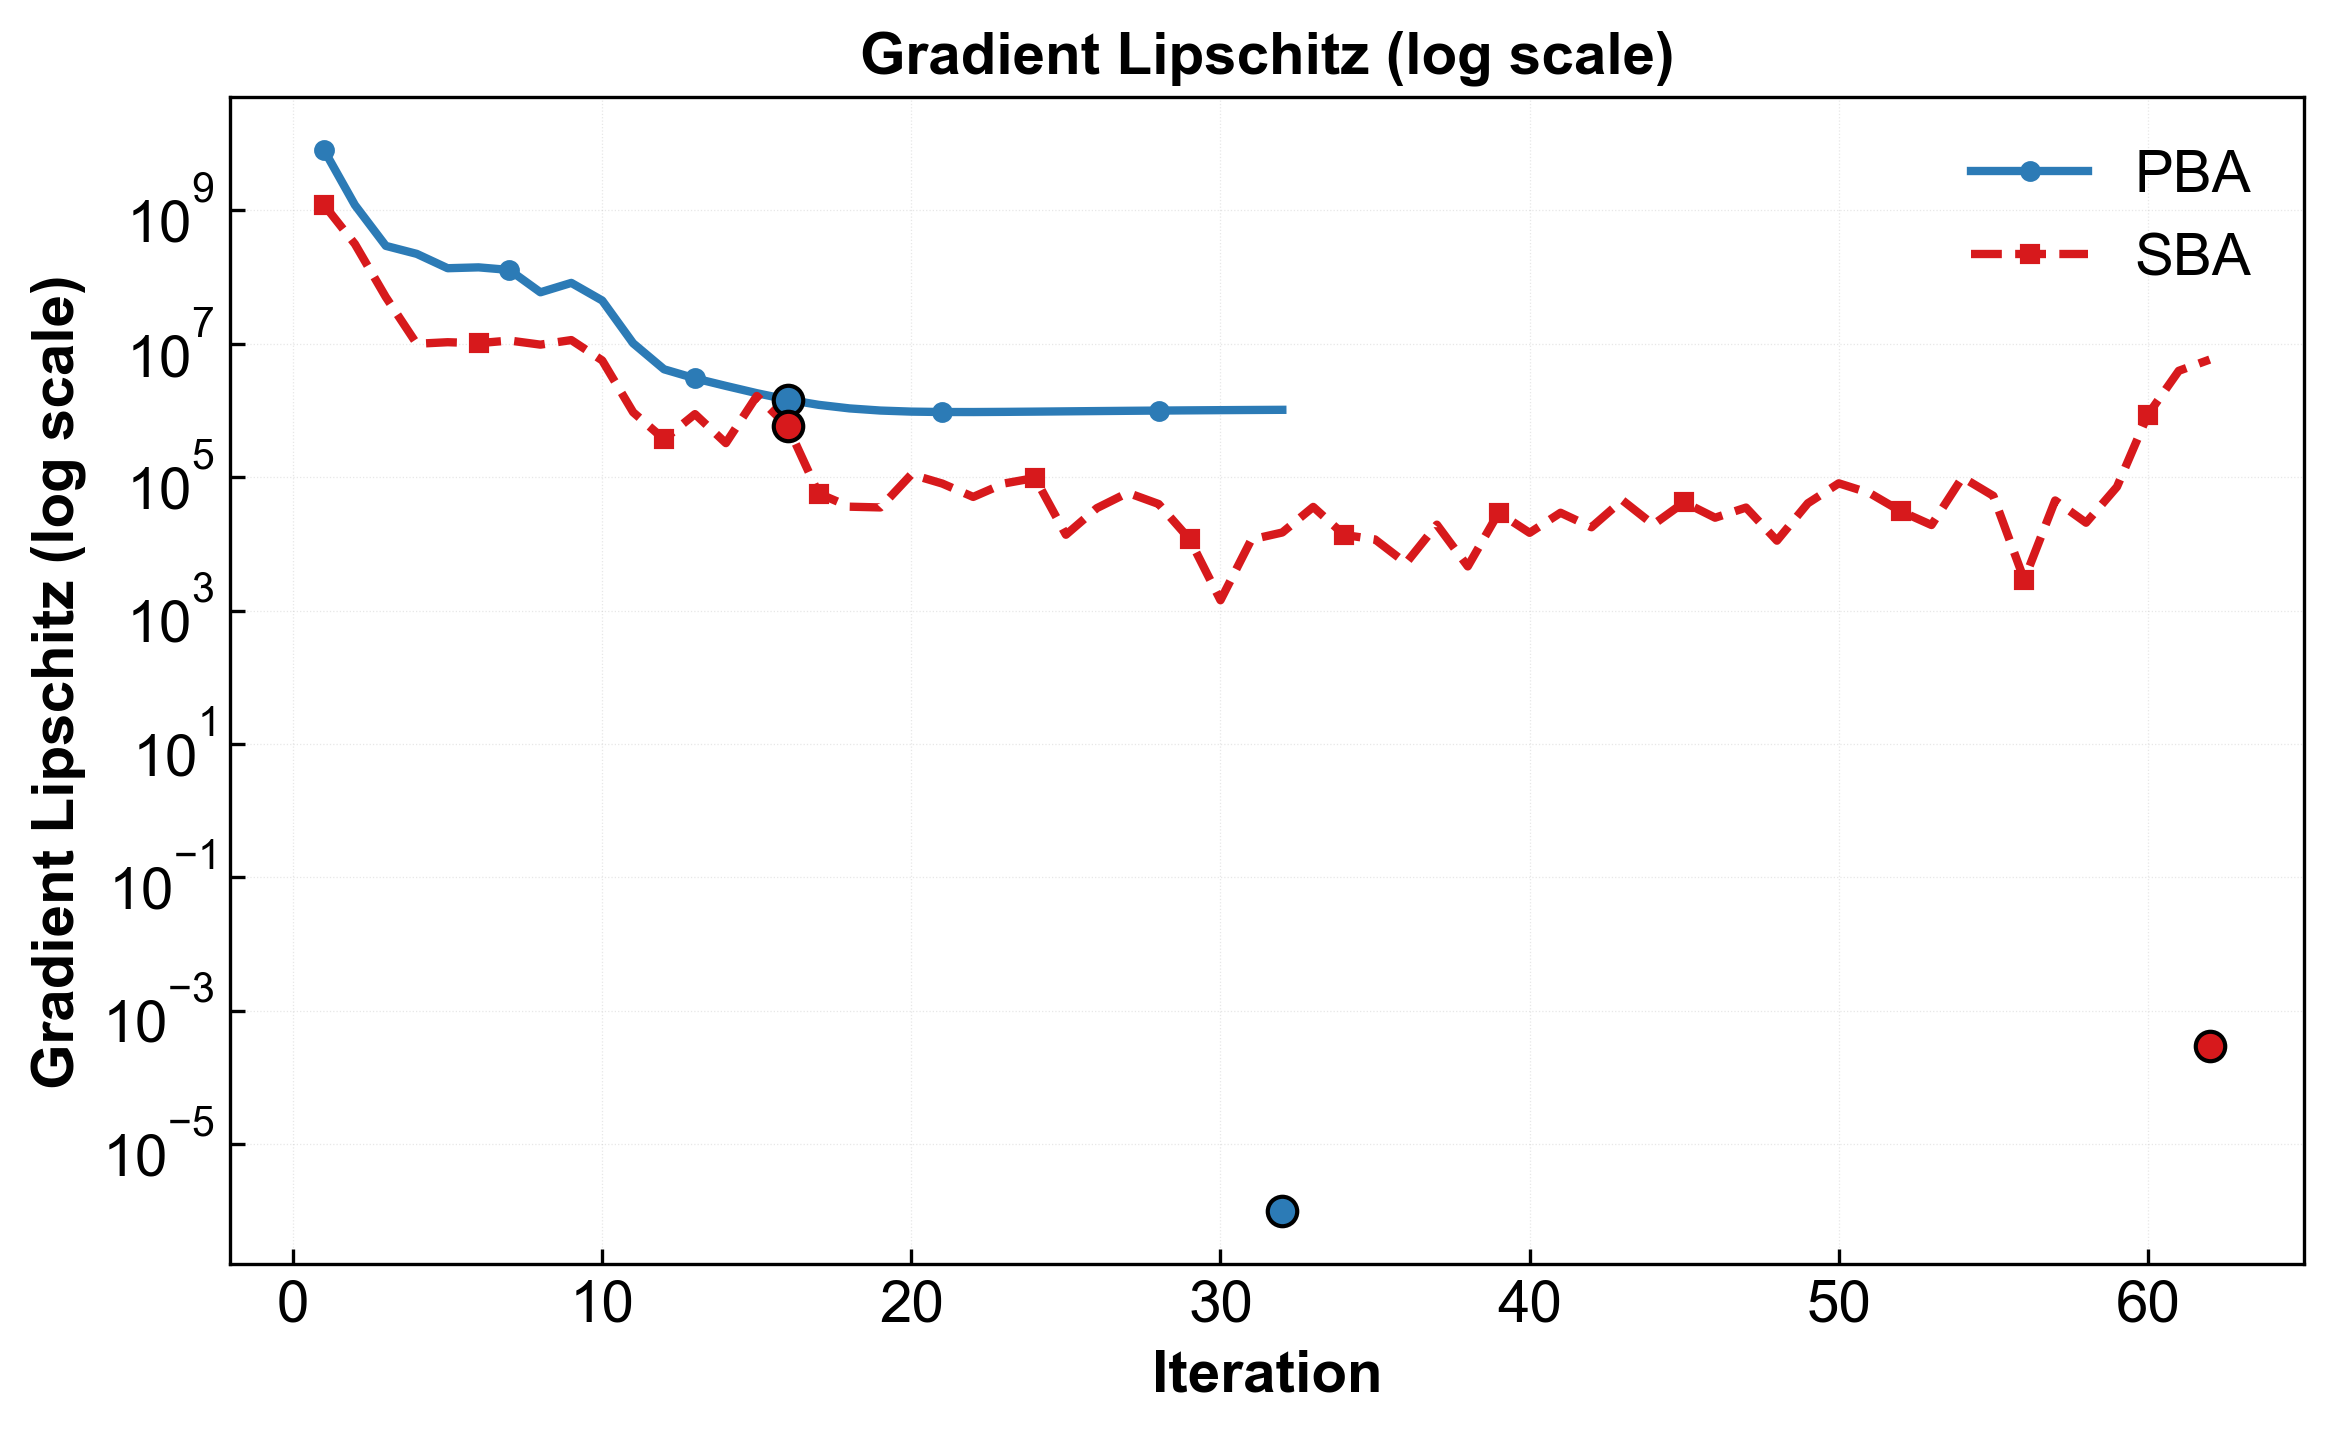
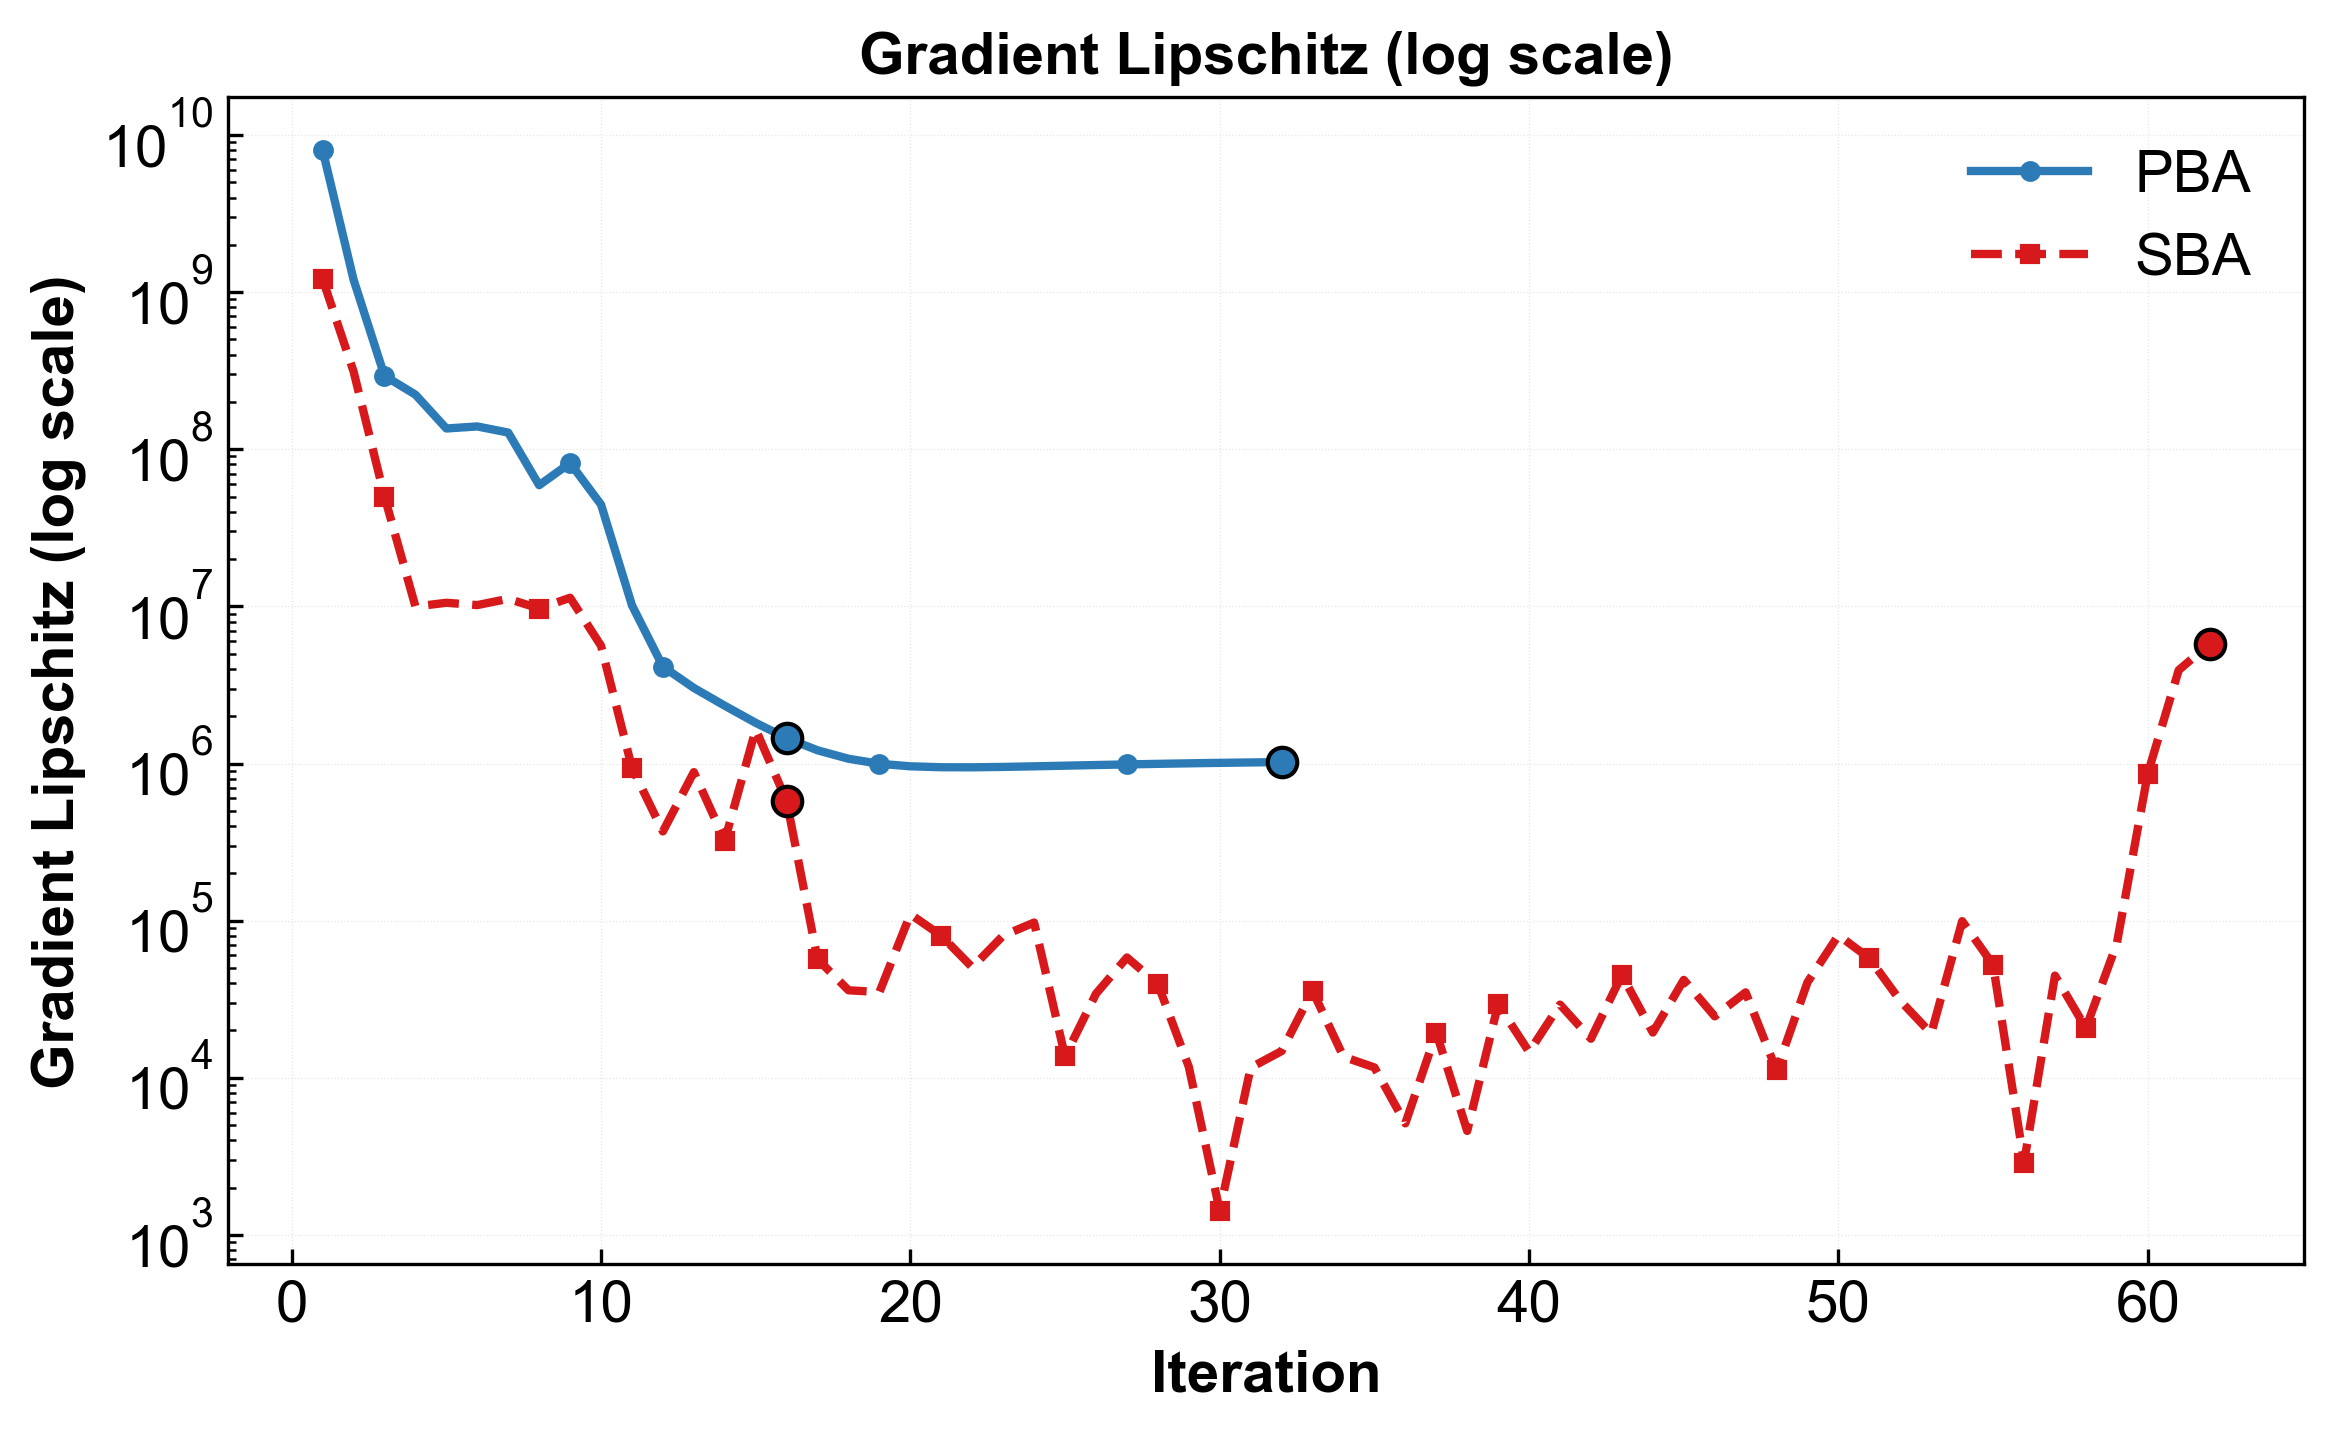
Update Readme and Python File

diff --git a/python/sigma_spectral.py b/python/sigma_spectral.py
@@ -800,20 +800,20 @@ def plot_b_lips_evolution_log_scale():
             marker='o', markersize=4, markevery=0.1, label='PBA')
     ax.plot(iterations_sba, sba_b_lips[1:], color=sba_color, linewidth=2.0, 
             linestyle='--', marker='s', markersize=4, markevery=0.1, label='SBA')
-    
+    ax.set_yscale('log')
     ax.set_xlabel("Iteration", fontsize=14, fontweight='bold')
     ax.set_ylabel("Gradient Lipschitz (log scale)", fontsize=14, fontweight='bold')
-    ax.set_yscale('log')
+    
     ax.grid(True, linestyle=':', linewidth=0.3, alpha=0.3)
     ax.legend(frameon=False, loc='best', fontsize=14)
     ax.set_title('Gradient Lipschitz (log scale)', fontsize=14, fontweight='bold')
     
     # 标注关键点
     ax.scatter([mid_iter, n_iterations_pba], 
-              [pba_b_lips[mid_iter], pba_rmc[-1]], 
+              [pba_b_lips[mid_iter], pba_b_lips[-1]], 
               color=pba_color, s=50, zorder=5, edgecolors='black')
     ax.scatter([mid_iter, n_iterations_sba], 
-              [sba_b_lips[mid_iter], sba_rmc[-1]], 
+              [sba_b_lips[mid_iter], sba_b_lips[-1]], 
               color=sba_color, s=50, zorder=5, edgecolors='black')
     
     plt.tight_layout()
